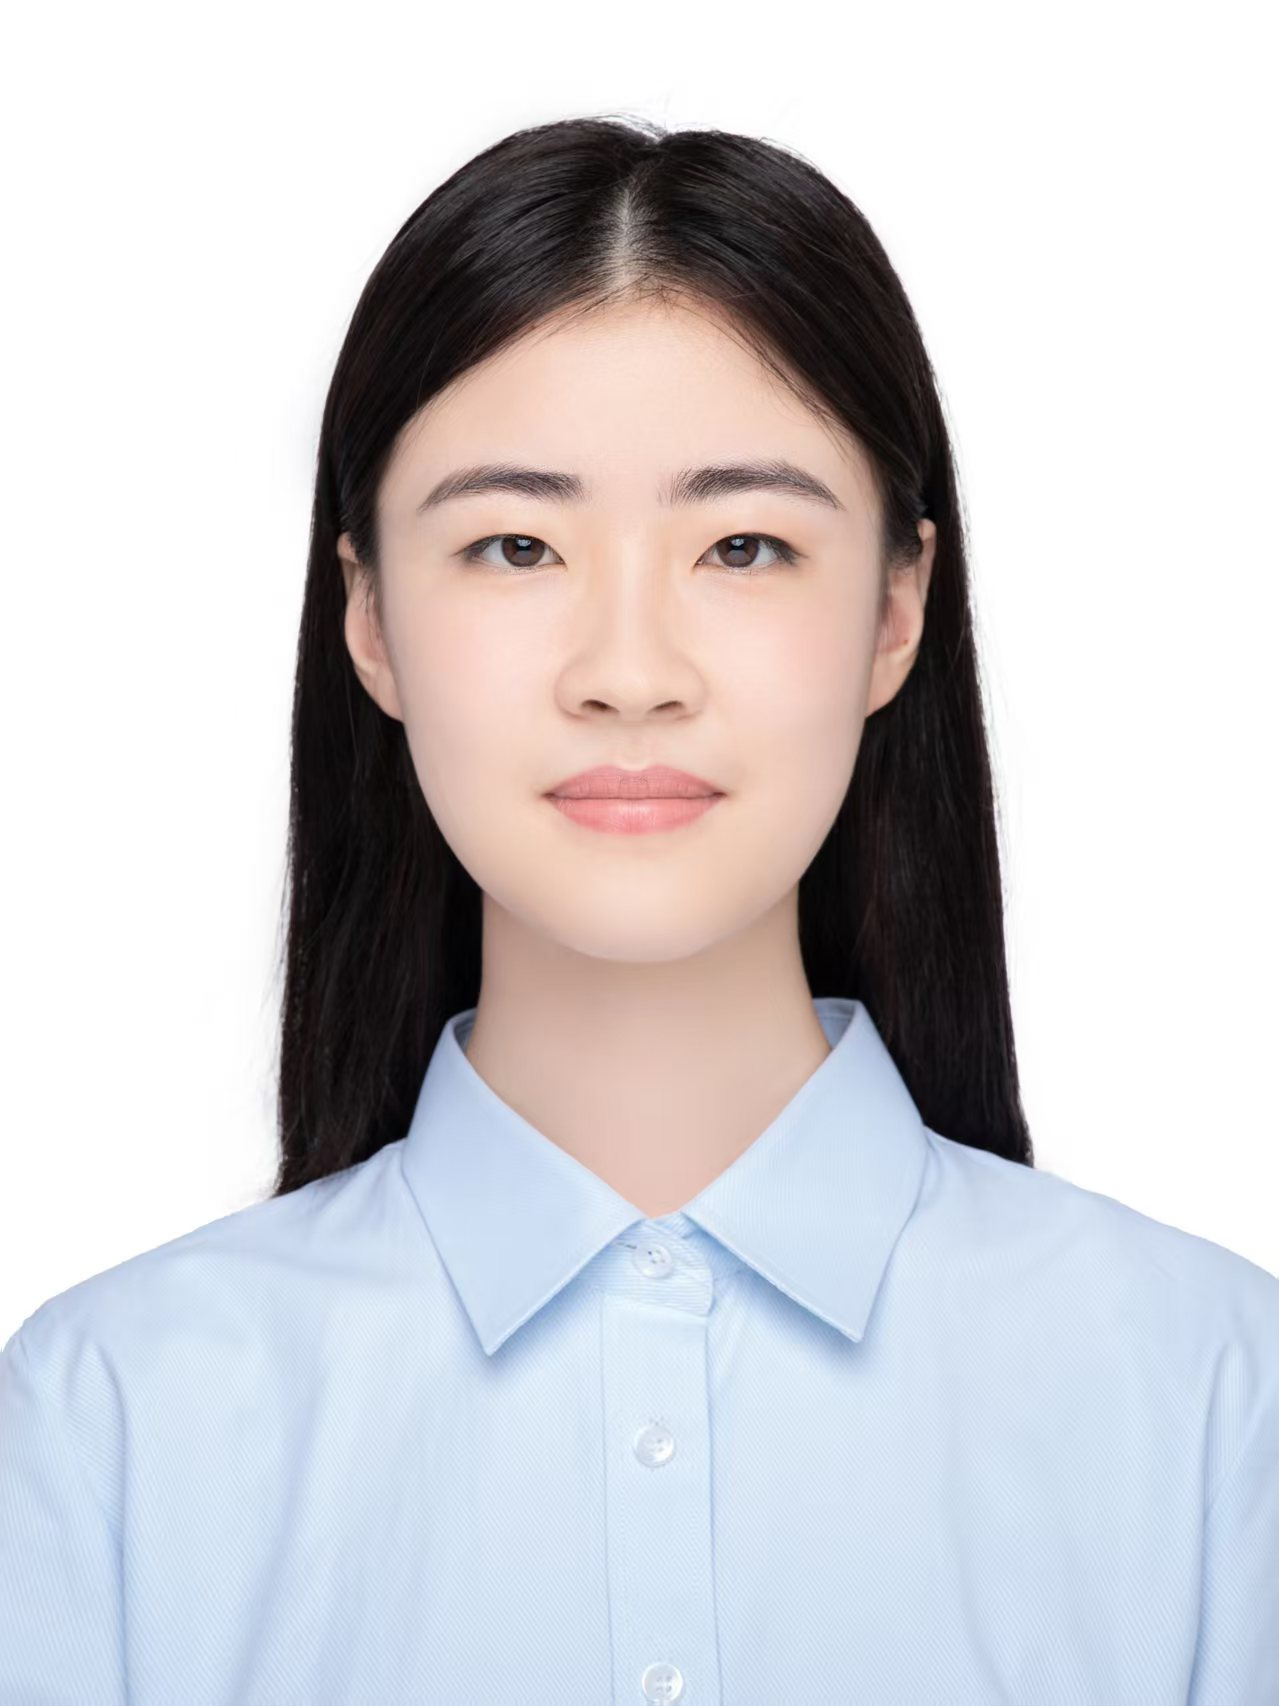
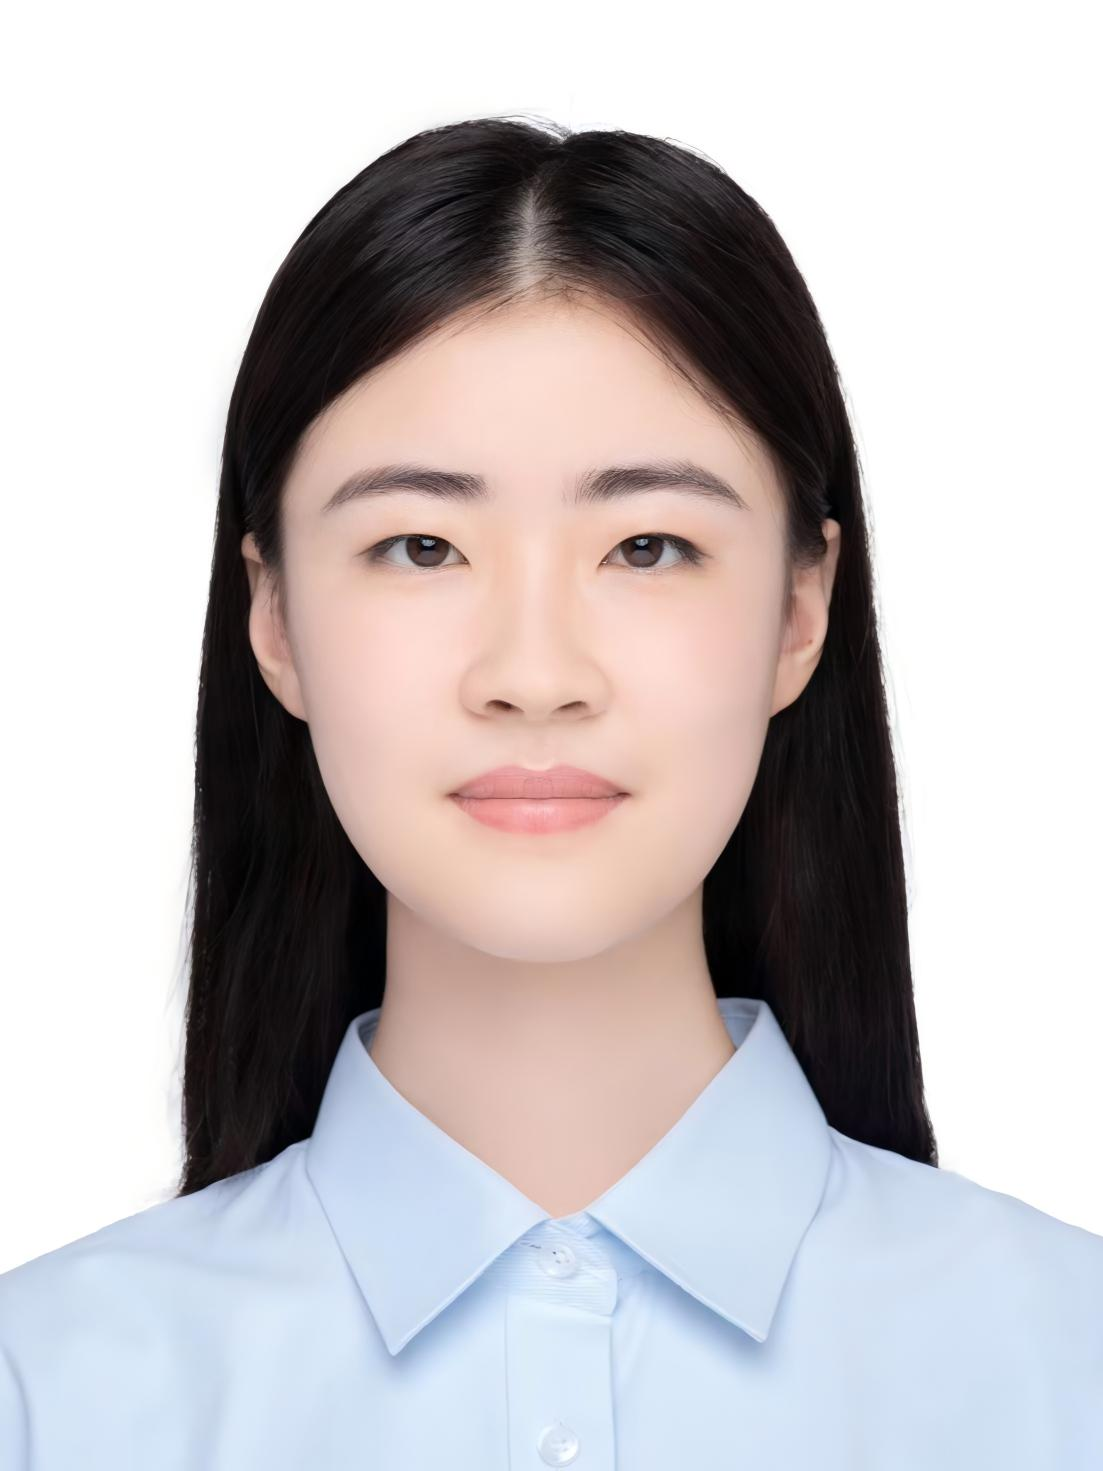
Add img

diff --git a/member.html b/member.html
@@ -433,6 +433,15 @@ A.info:hover    {color:green;background:transparent;text-decoration:underline}
                                     <p style="margin-top: 5px;">林雨珊</p>
                                 </div>
 
+                                <div class="w18">
+                                    <img src="common/img/4_5.jpg" />
+                                    <div class="mark">
+                                        <p style="margin-top: 140px;margin-bottom: 5px;">殷欣冉</p>
+                                        <p><a href="student_pages/yxrEN.html">HOMEPAGE</a></p>
+                                    </div>
+                                    <p style="margin-top: 5px;">殷欣冉</p>
+                                </div>
+
                             </div>
 
 
